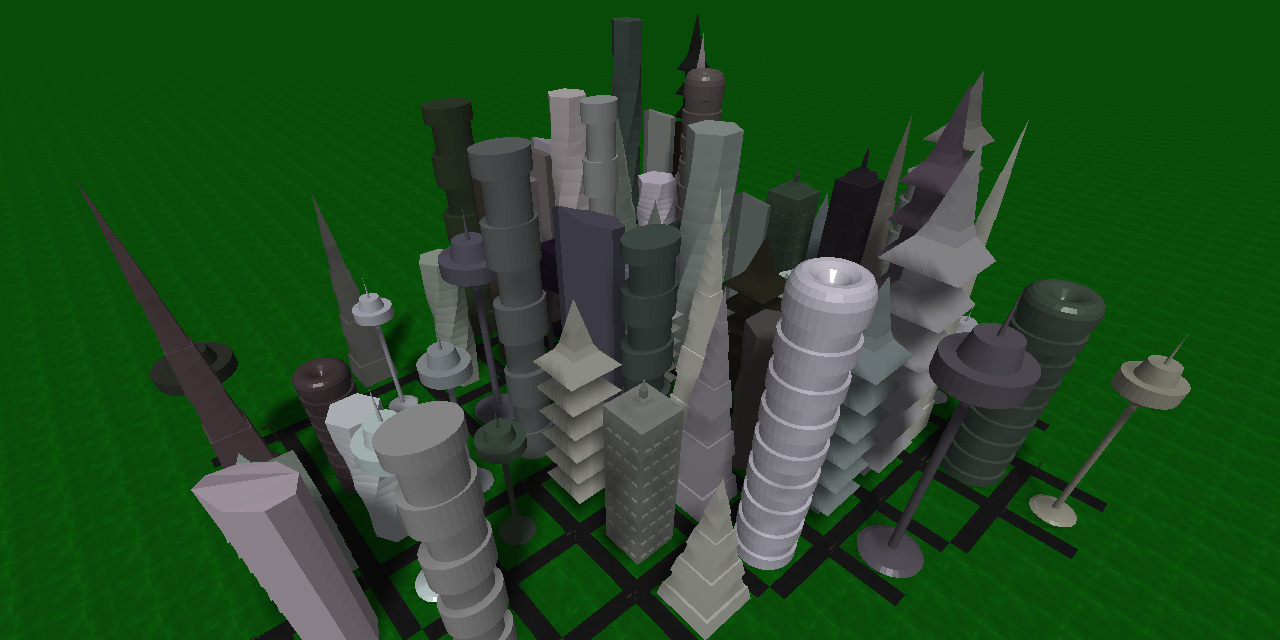
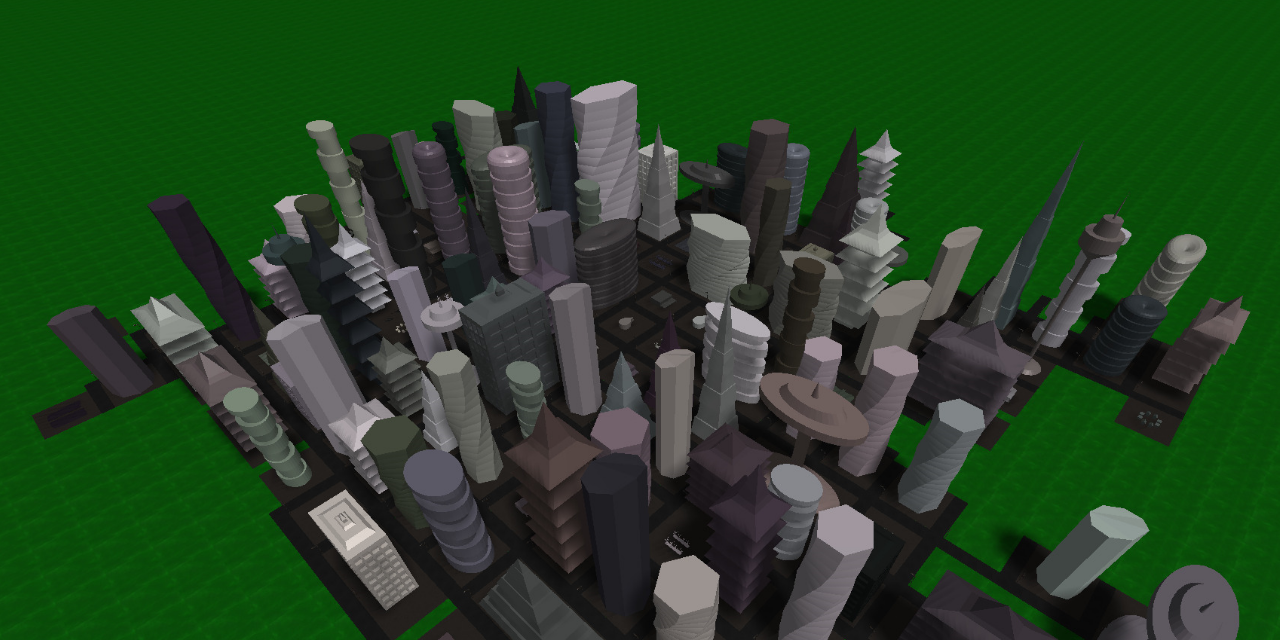
Added Day/Night buttons + Updated preview images

diff --git a/js/gui.js b/js/gui.js
@@ -1,17 +1,26 @@
-var gui;
+var gui = new dat.GUI({
+    name: "City Options"
+});
+
 var params = {
     selected_building: "empty",
-    light_angle: (Math.PI / 2) + 0.2,
-    camera_rotate_speed: 0,
-    light_increase_speed: 0,
-    walk_path_steps: genSteps,
 
+    light_angle: (Math.PI / 2) + 0.2,
+    light_increase_speed: 0,
     day: function () {
-        //Make day
+        params.light_angle = 1.8;
     },
     night: function () {
-        //make night
+        params.light_angle = 4.4;
     },
+
+    camera_rotate_speed: 0,
+
+    walk_path_steps: genSteps,
+    generate: function () {
+        GenerateCity(genSteps);
+    },
+
     firstPerson: function () {
         controls.reset();
         camera.position.x = 0;
@@ -19,14 +28,7 @@ var params = {
         camera.position.z = 13;
 
         camera.rotation.y = 90 * Math.PI / 180;
-        // camera.rotation.x = 90 * Math.PI / 180;
-        // camera.rotation.z = 90 * Math.PI / 180;
-
-        // camera.up.set(0, 0, 1);
-        // camera.lookAt(100, 100, 100);
-        // camera.target.position.y = 12
         keyboardControls.getObject().position.set(0, 4, 13);
-        // controls = new THREE.PointerLockControls(camera);
         controls.update();
         camera.updateProjectionMatrix();
 
@@ -34,9 +36,6 @@ var params = {
         keyboardControls.enabled = !keyboardControls.enabled;
     },
 
-    generate: function () {
-        GenerateCity(genSteps);
-    },
     generate1: function () { //match the skybox
         scene.background = textureCube1;
     },
@@ -85,11 +84,6 @@ var params = {
     },
 }
 
-gui = new dat.GUI({
-    name: "City Options"
-});
-
-selectCheck();
 
 var lightFolder = gui.addFolder('Light Options');
 lightFolder.open();
@@ -131,6 +125,13 @@ window.setInterval(function () {
     updateLight(params.light_angle + (params.light_increase_speed / 100));
 }, 30);
 
+var ctrlBtnDay = lightFolder.add(params, 'day');
+ctrlBtnDay.name("Set Time to Day");
+
+var ctrlBtnNight = lightFolder.add(params, 'night');
+ctrlBtnNight.name("Set Time to Night");
+
+
 var cameraFolder = gui.addFolder('Camera Options');
 cameraFolder.open();
 
@@ -139,6 +140,7 @@ cameraSpeedController.name("Camera Rotation Speed");
 cameraSpeedController.onChange(function (val) {
     controls.autoRotateSpeed = val;
 });
+
 
 var generationFolder = gui.addFolder('Generation Options');
 generationFolder.open();
@@ -152,15 +154,13 @@ genStepsController.onChange(function (val) {
 var genBtn = generationFolder.add(params, 'generate');
 genBtn.name("Generate New City");
 
+
 //Controller settings, for example whether or not to use first person controls
 var controlsFolder = gui.addFolder('Control Options');
 controlsFolder.open();
+
 var ctrlBtnFP = controlsFolder.add(params, 'firstPerson');
 ctrlBtnFP.name("First Person Mode");
-// var ctrlBtnDay = controlsFolder.add(params, 'day');
-// ctrlBtnDay.name("Set time day");
-// var ctrlBtnNight = controlsFolder.add(params, 'night');
-// ctrlBtnNight.name("Set time night");
 
 
 //Skybox

diff --git a/js/main.js b/js/main.js
@@ -26,22 +26,14 @@ var update = function () {
 
     direction.normalize();
 
-    // console.log('delta', delta);
     if (moveForward || moveBackward) {
         velocity.z -= direction.z * moveSpeed * delta * (firstPersonMode ? 0.2 : 0.6);
-        console.log('velocity.z :', velocity.z);
-        // console.log('direction.z :', direction.z);
     }
     if (moveLeft || moveRight) {
         velocity.x -= direction.x * moveSpeed * delta * (firstPersonMode ? 0.2 : 0.6);
-        console.log('velocity.x :', velocity.x);
-        // console.log('direction.x :', direction.x);
-
     }
     if (moveUp || moveDown) {
         velocity.y -= direction.y * moveSpeed * delta * 0.2;
-        console.log('velocity.y :', velocity.y);
-        // console.log('direction.y :', direction.y);
     }
 
     keyboardControls.getObject().translateX(velocity.x * delta);
